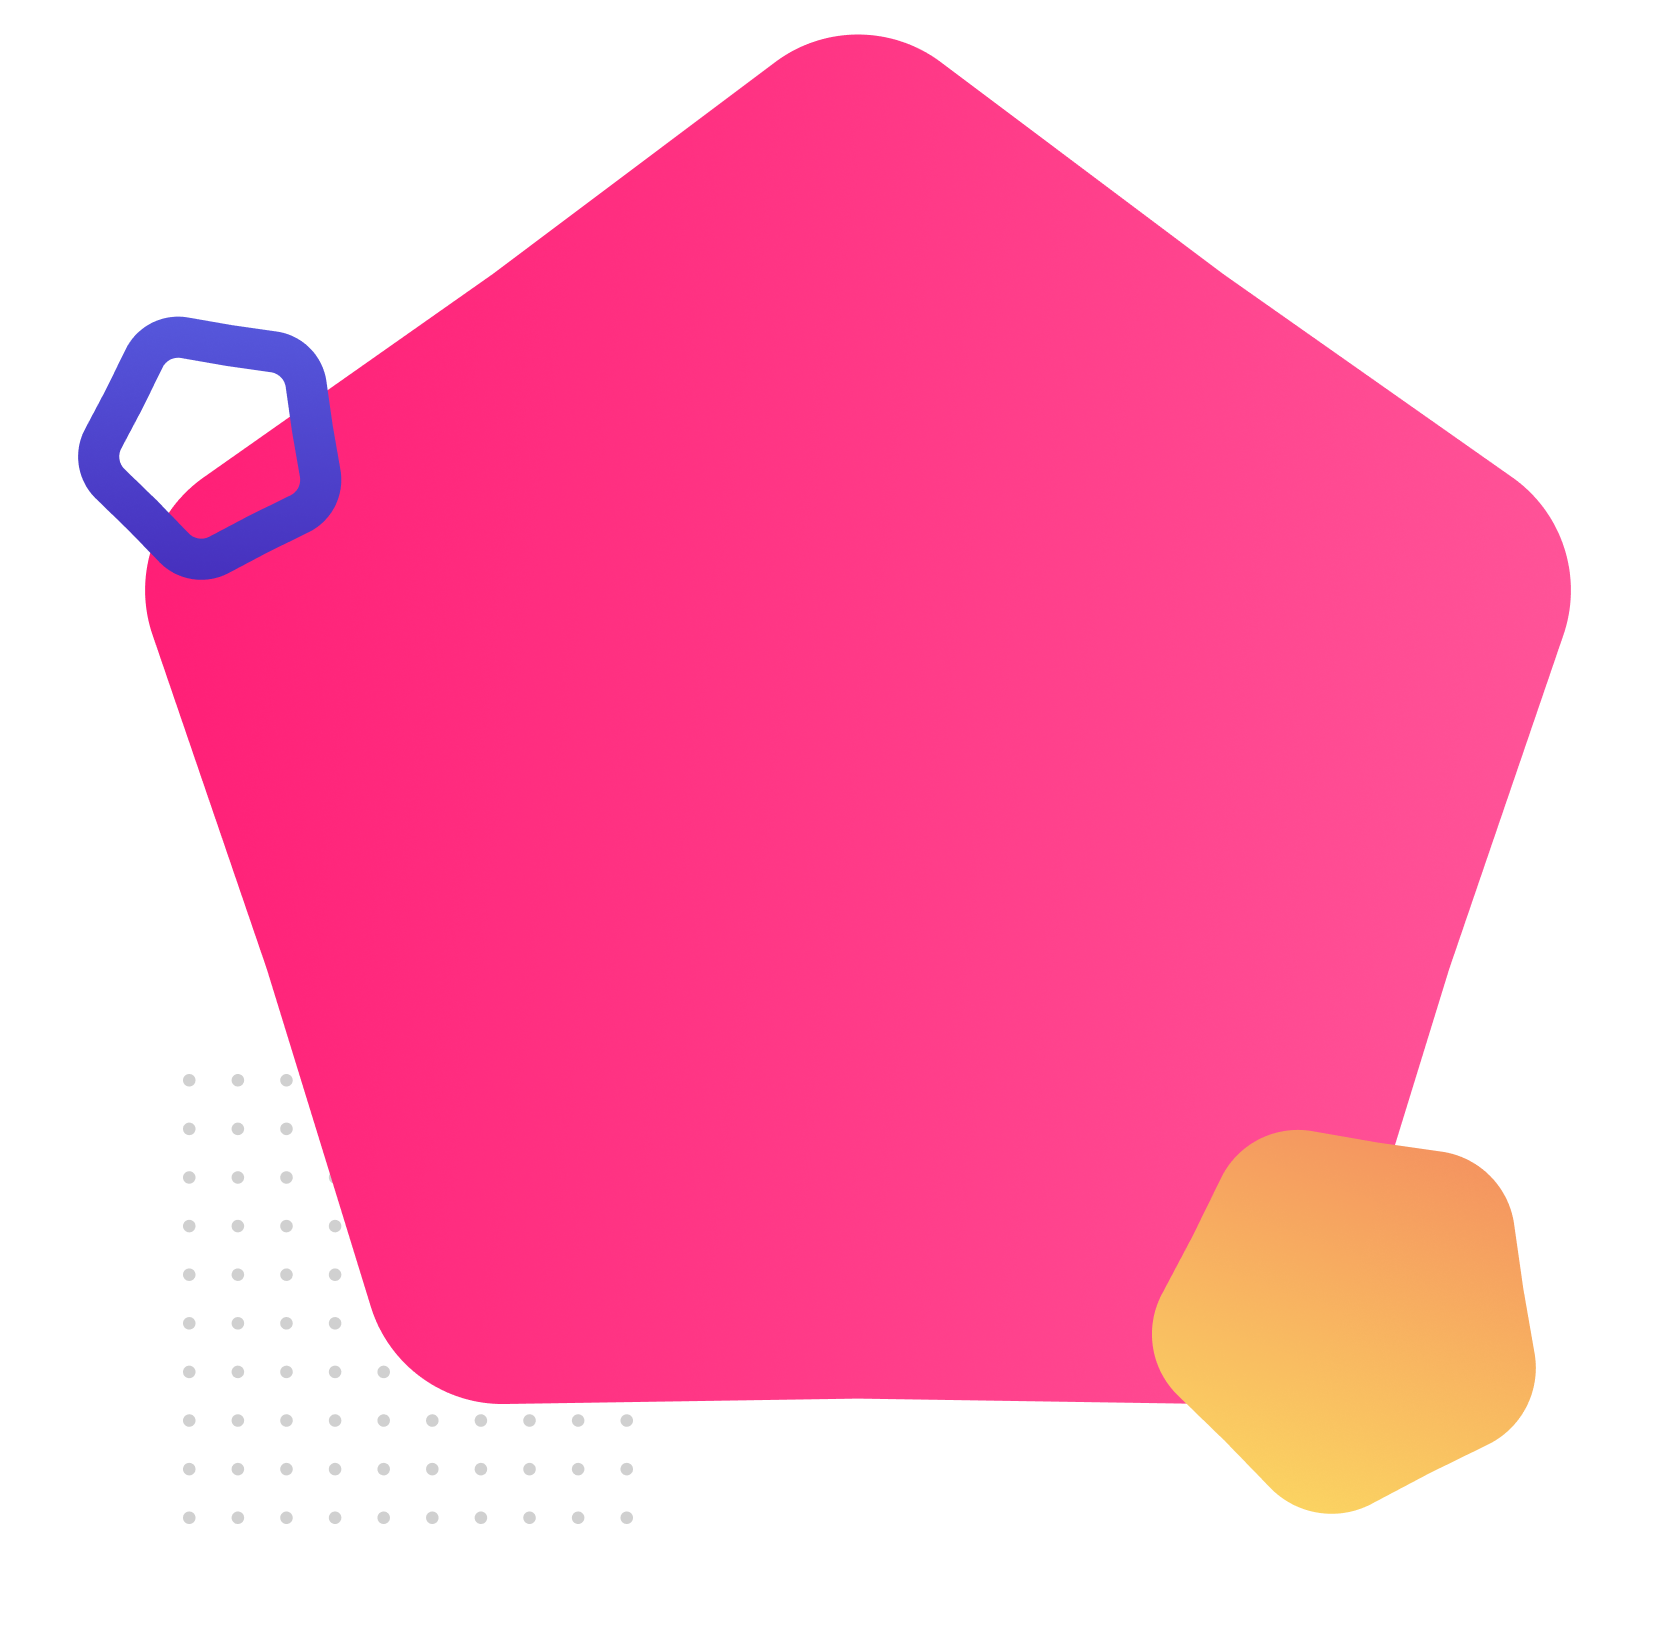
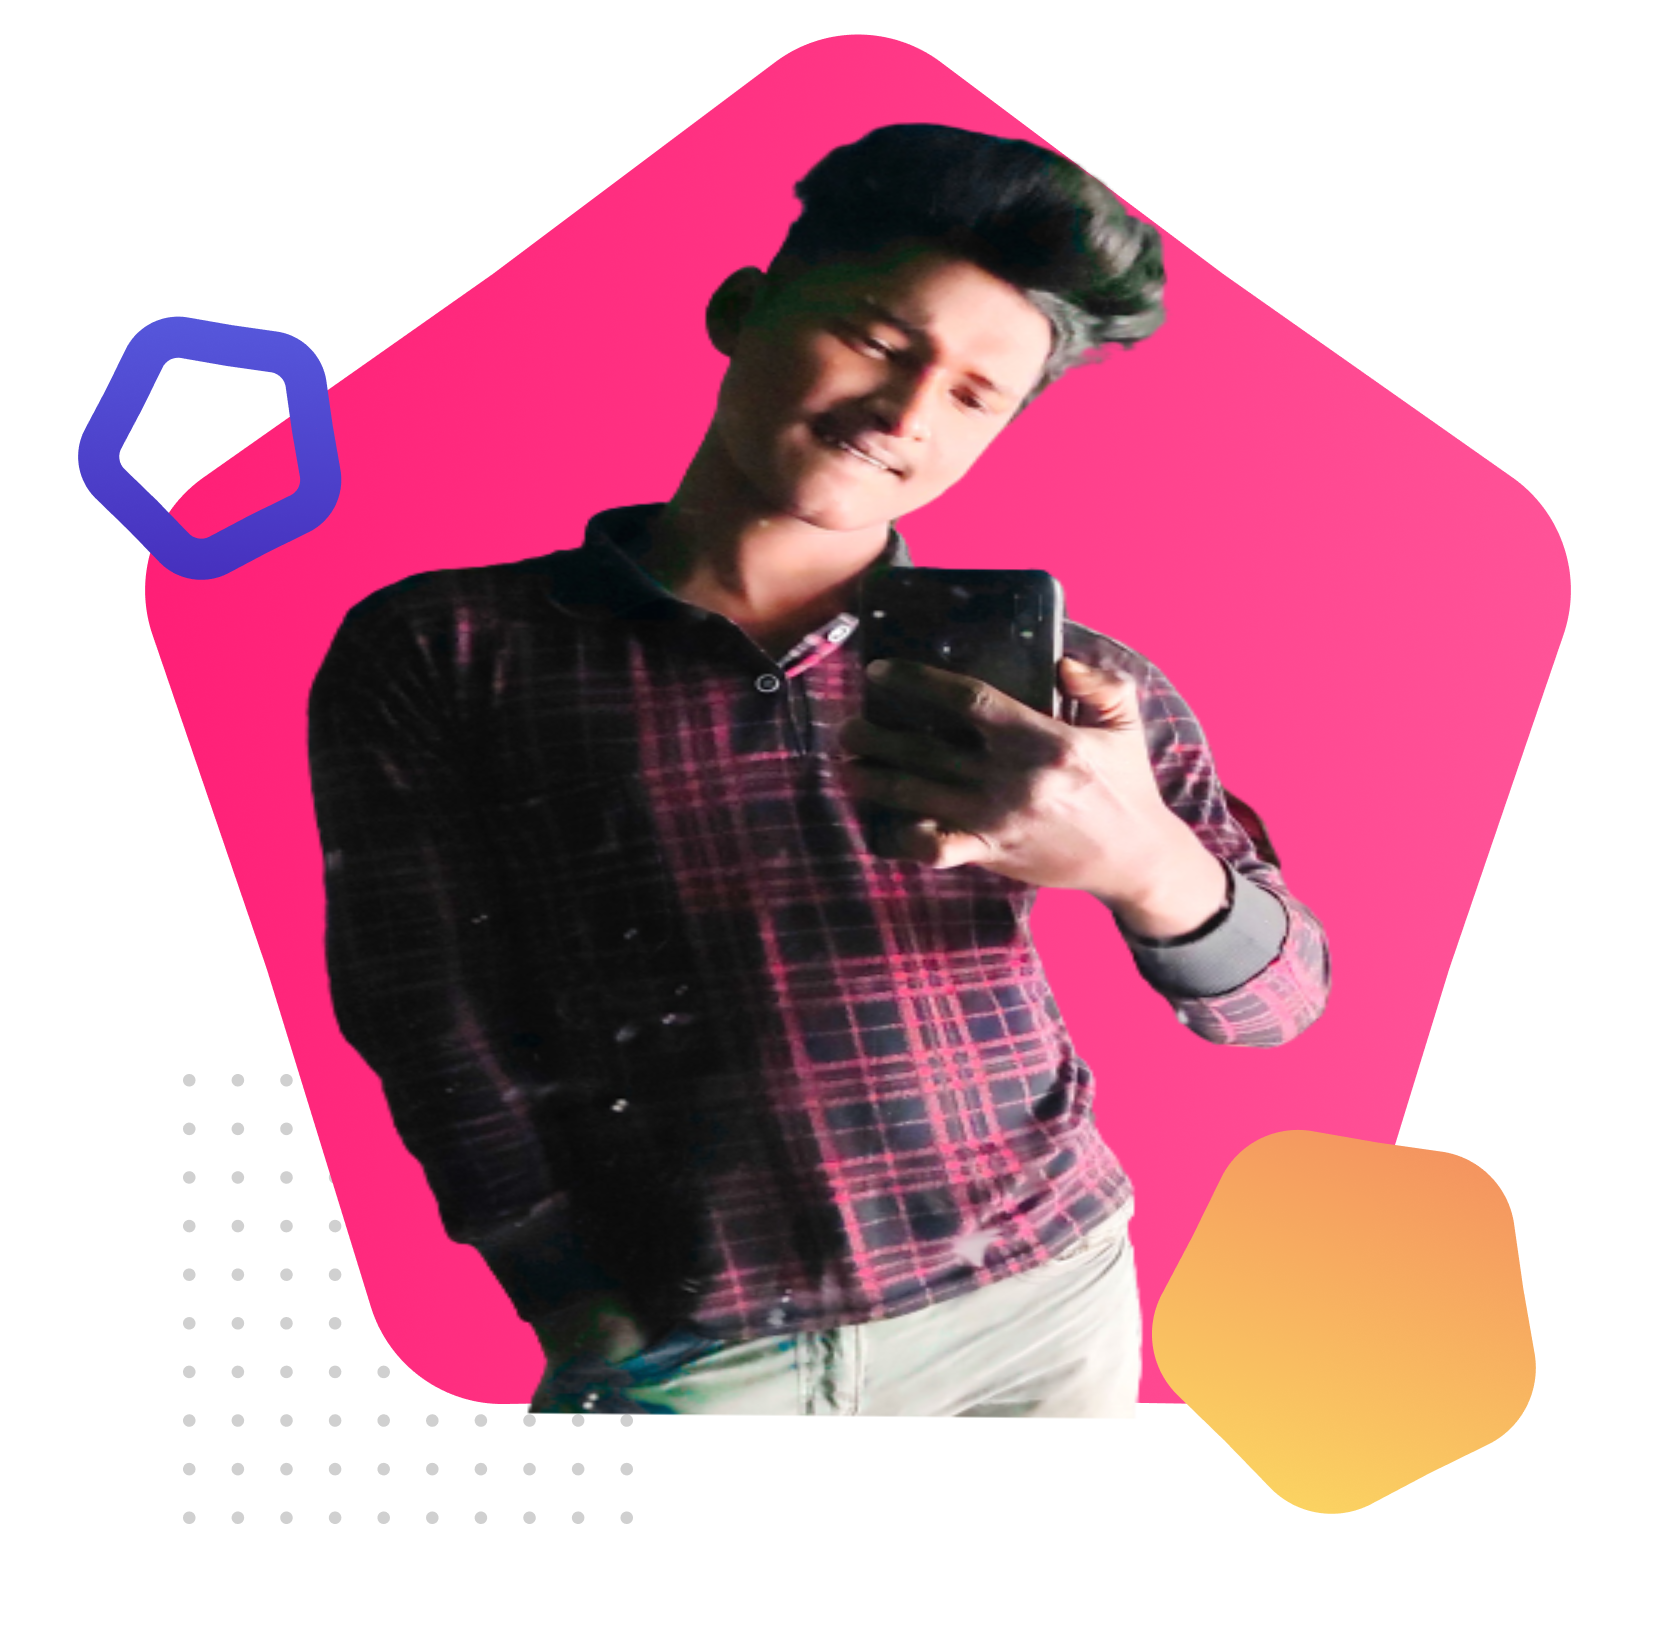
da

diff --git a/index.html b/index.html
@@ -33,7 +33,7 @@
 
         </div>
         <div class="half-width">
-            <img src="img/p (3).jpg" alt="">
+            <img src="img/dim.png" alt="">
         </div>
     </section>
 
